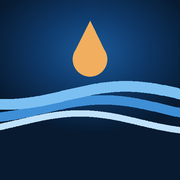
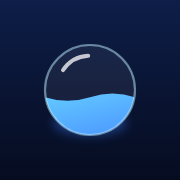
Логотип и заставка «Уровень»: стеклянная сфера, слоган, шапка с подписью, шрифт Unbounded в приложении
Claude-Session: https://claude.ai/code/session_019DFyfBB83DxV1XftDjFue7

diff --git a/index.html b/index.html
@@ -11,22 +11,29 @@
 <meta name="mobile-web-app-capable" content="yes">
 <meta name="apple-mobile-web-app-title" content="Поток">
 <meta name="apple-mobile-web-app-status-bar-style" content="default">
+<link rel="apple-touch-startup-image" media="(device-width:375px) and (device-height:667px) and (-webkit-device-pixel-ratio:2) and (orientation:portrait)" href="splash/s-750x1334.png">
+<link rel="apple-touch-startup-image" media="(device-width:390px) and (device-height:844px) and (-webkit-device-pixel-ratio:3) and (orientation:portrait)" href="splash/s-1170x2532.png">
+<link rel="apple-touch-startup-image" media="(device-width:393px) and (device-height:852px) and (-webkit-device-pixel-ratio:3) and (orientation:portrait)" href="splash/s-1179x2556.png">
+<link rel="apple-touch-startup-image" media="(device-width:428px) and (device-height:926px) and (-webkit-device-pixel-ratio:3) and (orientation:portrait)" href="splash/s-1284x2778.png">
+<link rel="apple-touch-startup-image" media="(device-width:430px) and (device-height:932px) and (-webkit-device-pixel-ratio:3) and (orientation:portrait)" href="splash/s-1290x2796.png">
+<link rel="apple-touch-startup-image" media="(device-width:402px) and (device-height:874px) and (-webkit-device-pixel-ratio:3) and (orientation:portrait)" href="splash/s-1206x2622.png">
+<link rel="apple-touch-startup-image" media="(device-width:440px) and (device-height:956px) and (-webkit-device-pixel-ratio:3) and (orientation:portrait)" href="splash/s-1320x2868.png">
 <link rel="manifest" href="manifest.webmanifest">
 <link rel="apple-touch-icon" href="icons/icon-180.png">
 <link rel="icon" type="image/png" href="icons/icon-192.png">
-<link rel="preload" href="marck-script.woff" as="font" type="font/woff" crossorigin>
+<link rel="preload" href="unbounded.woff" as="font" type="font/woff" crossorigin>
 <link rel="preconnect" href="https://fonts.googleapis.com">
 <link rel="preconnect" href="https://fonts.gstatic.com" crossorigin>
-<link rel="stylesheet" href="https://fonts.googleapis.com/css2?family=Golos+Text:wght@400;500;600;700&family=Unbounded:wght@700&display=swap">
+<link rel="stylesheet" href="https://fonts.googleapis.com/css2?family=Golos+Text:wght@400;500;600;700&display=swap">
 <script>
 /* Тема до первой отрисовки, чтобы не мигало: auto | light | dark */
 (function(){try{var t=localStorage.getItem('ff-theme');if(t==='light'||t==='dark'){document.documentElement.dataset.theme=t;var c=t==='dark'?'#0A1520':'#F1F6FA';document.querySelectorAll('meta[name=theme-color]').forEach(function(m){m.content=c})}}catch(e){}})();
 </script>
 <style>
-/* «Поток»: водная гамма (синий, голубой, бирюзовый), солнечный акцент для наград, каллиграфия для заголовков.
+/* «Поток»: технологичная вода. Знак — стеклянная сфера с уровнем жидкости, надпись Unbounded строчными.
    Раньше: «Тёплый поток»: тёплая основа, цвет по типу фонда, русло очереди, праздник за прогресс.
    Layout: одна колонка, шапка, четыре вкладки внизу, шторки для ввода. */
-@font-face{font-family:"Marck Script";src:url(marck-script.woff) format("woff");font-weight:400;font-style:normal;font-display:swap}
+@font-face{font-family:"Unbounded";src:url(unbounded.woff) format("woff");font-weight:500 700;font-style:normal;font-display:swap}
 :root{
   --bg:#F1F6FA; --surface:#FFFFFF; --surface-2:#E2ECF4; --surface-3:#D3E0EA; --sheet:#FFFFFF; --field:#F1F6FA;
   --ink:#0F2233; --muted:#566878; --line:#D3E0EA; --glow:rgba(77,148,230,.13);
@@ -43,7 +50,6 @@
   --sheet-shadow:0 -10px 30px rgba(15,34,51,.18); --btn-shadow:0 1px 2px rgba(15,34,51,.08);
   --toast-bg:#0F2233; --toast-ink:#F1F6FA; --toast-act:#8CC8F5;
   --f-display:"Unbounded","Golos Text",system-ui,sans-serif;
-  --f-script:"Marck Script","Segoe Script","Snell Roundhand",cursive;
   --f-body:"Golos Text",system-ui,-apple-system,"Segoe UI",sans-serif;
   --r:16px; --r-sm:12px;
 }
@@ -59,7 +65,7 @@
   --bad:#F2867C; --bad-soft:#3E1F1C;
   --good:#58CFD4; --good-soft:#10343A;
   --graphite:#93A9BC; --graphite-soft:#1B2A38;
-  --scrim:rgba(0,0,0,.62); --card-shadow:none; --sheet-shadow:0 -1px 0 var(--line); --btn-shadow:none; --btn-bg:var(--surface-2);
+  --scrim:rgba(0,0,0,.62); --card-shadow:none; --sheet-shadow:0 -1px 0 var(--line); --btn-shadow:none; --btn-bg:var(--surface-2); --mark-ring:0 0 0 1px rgba(160,200,255,.16);
   --toast-bg:#E6EFF6; --toast-ink:#0A1520; --toast-act:#1D5FA6;
   color-scheme:dark}}
 :root[data-theme="dark"]{
@@ -74,7 +80,7 @@
   --bad:#F2867C; --bad-soft:#3E1F1C;
   --good:#58CFD4; --good-soft:#10343A;
   --graphite:#93A9BC; --graphite-soft:#1B2A38;
-  --scrim:rgba(0,0,0,.62); --card-shadow:none; --sheet-shadow:0 -1px 0 var(--line); --btn-shadow:none; --btn-bg:var(--surface-2);
+  --scrim:rgba(0,0,0,.62); --card-shadow:none; --sheet-shadow:0 -1px 0 var(--line); --btn-shadow:none; --btn-bg:var(--surface-2); --mark-ring:0 0 0 1px rgba(160,200,255,.16);
   --toast-bg:#E6EFF6; --toast-ink:#0A1520; --toast-act:#1D5FA6;
   color-scheme:dark}
 
@@ -102,7 +108,11 @@ img{max-width:100%}
 header.top{position:sticky;top:0;padding-top:env(safe-area-inset-top,0px);z-index:5;background:var(--bg);border-bottom:1px solid var(--line)}
 .top-in{display:flex;align-items:center;justify-content:space-between;gap:12px;padding-block:10px}
 .eyebrow{font-size:12px;letter-spacing:.05em;text-transform:uppercase;color:var(--muted);font-weight:600}
-h1{font-family:var(--f-script);font-weight:400;font-size:32px;line-height:1;margin:0;letter-spacing:0;color:var(--accent)}
+.brand{display:flex;align-items:center;gap:11px;min-width:0}
+.brand-mark{width:40px;height:40px;flex:none;display:block;border-radius:10px;box-shadow:var(--mark-ring,0 4px 12px rgba(10,30,70,.22))}
+h1.brand-name{font-family:var(--f-display);font-weight:600;font-size:21px;line-height:1;margin:0;letter-spacing:-.02em;color:var(--ink)}
+.brand-tag{font-size:12.5px;line-height:1.2;color:var(--muted);margin-top:4px;white-space:nowrap;overflow:hidden;text-overflow:ellipsis}
+@media (prefers-reduced-motion:no-preference){.brand-wave{animation:spWave 4s linear infinite}}
 h2{font-weight:600;font-size:17px;margin:0;letter-spacing:-.005em}
 h3{font-weight:600;font-size:15px;margin:0}
 main{padding-block:16px calc(104px + env(safe-area-inset-bottom,0px));display:flex;flex-direction:column;gap:22px}
@@ -322,7 +332,7 @@ nav.tabs button[aria-current="page"]{color:var(--accent)}
 .hdr-btns{display:flex;gap:8px;align-items:center}
 .icon-btn{width:40px;height:40px;border-radius:var(--r-sm);border:1px solid var(--line);background:var(--surface);display:grid;place-items:center}
 .gate{display:flex;flex-direction:column;gap:16px;padding-top:8px}
-.gate-h{font-family:var(--f-script);font-weight:400;font-size:34px;line-height:1.1;margin:4px 0 6px;letter-spacing:0}
+.gate-h{font-family:var(--f-display);font-weight:600;font-size:23px;line-height:1.2;margin:4px 0 6px;letter-spacing:-.01em}
 .gate-form{padding:16px;display:flex;flex-direction:column;gap:12px}
 .gate-links{display:flex;flex-wrap:wrap;gap:16px;justify-content:center}
 .code{font-weight:700;font-size:26px;letter-spacing:.12em;padding:12px 14px;border-radius:var(--r-sm);background:var(--accent-soft);color:var(--accent);user-select:all;-webkit-user-select:all}
@@ -360,7 +370,7 @@ nav.tabs button[aria-current="page"]{color:var(--accent)}
 .cele{position:fixed;inset:0;z-index:40;background:radial-gradient(120% 70% at 50% 30%,var(--reward-soft),var(--bg) 70%);display:flex;flex-direction:column;align-items:center;justify-content:center;gap:18px;padding:32px 24px calc(32px + env(safe-area-inset-bottom,0px));text-align:center}
 .cele canvas{position:absolute;inset:0;width:100%;height:100%;pointer-events:none}
 .cele .ce-in{position:relative;display:flex;flex-direction:column;align-items:center;gap:14px;max-width:380px}
-.stamp{font-family:var(--f-script);font-weight:400;font-size:clamp(30px,9.5vw,42px);line-height:1.15;letter-spacing:.02em;color:var(--reward-ink);border:4px solid currentColor;border-radius:16px;padding:8px 18px;transform:rotate(-7deg);margin:4px 0 14px}
+.stamp{font-family:var(--f-display);font-weight:700;font-size:clamp(26px,8.5vw,38px);line-height:1.15;letter-spacing:.04em;text-transform:uppercase;color:var(--reward-ink);border:4px solid currentColor;border-radius:16px;padding:8px 18px;transform:rotate(-7deg);margin:4px 0 14px}
 .cele .ce-emoji{font-size:44px;line-height:1}
 .cele .ce-title{font-size:20px;font-weight:700;margin:0}
 .cele .ce-sub{color:var(--muted);margin:0}
@@ -399,40 +409,63 @@ nav.tabs button[aria-current="page"]{color:var(--accent)}
   @keyframes stamp{from{opacity:0;transform:rotate(-7deg) scale(2.2)}to{opacity:1;transform:rotate(-7deg) scale(1)}}
 }
 
-/* заставка: капля падает в воду, круги и волны несут надпись */
-#splash{position:fixed;inset:0;z-index:100;display:grid;place-items:center;overflow:hidden;color:#EAF4FC;background:radial-gradient(120% 80% at 50% 28%,#1C5C9C 0%,#0F3A6B 46%,#071A30 100%);transition:opacity .5s ease,visibility .5s}
+/* заставка «Уровень»: стеклянная сфера, жидкость поднимается, проявляется надпись */
+#splash{position:fixed;inset:0;z-index:100;display:flex;flex-direction:column;align-items:center;justify-content:center;padding-bottom:4vh;background:radial-gradient(90% 60% at 50% 42%,#0E2152 0%,#070F26 55%,#04081A 100%);transition:opacity .5s ease,visibility .5s}
 #splash.out{opacity:0;visibility:hidden;pointer-events:none}
-.sp-grid{position:absolute;inset:0;background-image:linear-gradient(rgba(190,222,248,.08) 1px,transparent 1px),linear-gradient(90deg,rgba(190,222,248,.08) 1px,transparent 1px);background-size:28px 28px;-webkit-mask-image:radial-gradient(70% 55% at 50% 46%,#000 15%,transparent 78%);mask-image:radial-gradient(70% 55% at 50% 46%,#000 15%,transparent 78%)}
-.sp-stage{position:relative;width:min(340px,88vw);aspect-ratio:320/300}
-.sp-svg{position:absolute;inset:0;width:100%;height:100%;overflow:visible}
-.sp-word{position:absolute;left:0;right:0;top:14%;text-align:center;font-family:var(--f-script);font-size:clamp(76px,25vw,96px);line-height:1.05;color:#EAF4FC;text-shadow:0 0 34px rgba(109,181,240,.42);clip-path:inset(-10% 0 -10% 0)}
-.sp-sub{position:absolute;left:0;right:0;bottom:4%;text-align:center;font:600 12px/1 var(--f-body);letter-spacing:.32em;text-transform:uppercase;color:rgba(234,244,252,.66)}
-.sp-w{fill:none;stroke-linecap:round}
-.sp-drop{fill:#F0AE5E;opacity:0}
-.sp-ring{fill:none;stroke:#BFE1FA;stroke-width:1.5;vector-effect:non-scaling-stroke;opacity:0;transform-box:fill-box;transform-origin:center}
+.sp-mark{width:136px;height:136px;display:block;overflow:visible}
+.sp-word{margin-top:30px;font-family:var(--f-display);font-weight:600;font-size:36px;line-height:1;letter-spacing:-.02em;color:#EAF4FC}
+.sp-tag{margin-top:14px;font:500 15px/1.3 var(--f-body);color:rgba(234,244,252,.62);letter-spacing:.01em}
+.sp-rim,.sp-hi{transform-box:fill-box;transform-origin:center}
 @media (prefers-reduced-motion:no-preference){
-  .sp-grid{animation:spFade 1s .05s backwards}
-  .sp-drop{animation:spDrop .62s .2s cubic-bezier(.5,0,.9,.45) both}
-  .sp-ring{animation:spRing 1.25s .8s ease-out backwards}
-  .sp-ring.r2{animation-delay:.98s}
-  .sp-w{stroke-dasharray:1;animation:spDraw 1.1s .85s cubic-bezier(.45,.05,.2,1) backwards}
-  .sp-w.w2{animation-delay:1s}.sp-w.w3{animation-delay:1.15s}
-  .sp-word{animation:spWord 1s .9s cubic-bezier(.6,.05,.25,1) backwards}
-  .sp-sub{animation:spFade .8s 1.7s backwards}
-  .sp-flow{animation:spFlow 4s ease-in-out 2s infinite}
-  @keyframes spFade{from{opacity:0}}
-  @keyframes spDrop{0%{transform:translateY(-230px);opacity:0}12%{opacity:1}86%{transform:translateY(0);opacity:1}100%{transform:translateY(8px) scale(.2);opacity:0}}
-  @keyframes spRing{0%{transform:scale(.2);opacity:.9}100%{transform:scale(16);opacity:0}}
-  @keyframes spDraw{0%{stroke-dashoffset:1;opacity:0}3%{opacity:1}100%{stroke-dashoffset:0;opacity:1}}
-  @keyframes spWord{from{clip-path:inset(-10% 100% -10% 0)}}
-  @keyframes spFlow{0%,100%{transform:translateY(0)}50%{transform:translateY(-3px)}}
+  .sp-rim{animation:spRim .8s cubic-bezier(.2,.8,.2,1) backwards}
+  .sp-liq{animation:spRise 1.3s .3s cubic-bezier(.3,.7,.2,1) backwards}
+  .sp-wave{animation:spWave 2.2s linear infinite}
+  .sp-glow{animation:spFade 1.1s .7s backwards}
+  .sp-hi{animation:spFade .7s 1.05s backwards}
+  .sp-word{animation:spUp .8s 1s cubic-bezier(.2,.8,.2,1) backwards}
+  .sp-tag{animation:spUp .8s 1.25s cubic-bezier(.2,.8,.2,1) backwards}
 }
+@keyframes spRim{from{opacity:0;transform:scale(.82)}}
+@keyframes spRise{from{transform:translateY(40px)}}
+@keyframes spWave{from{transform:translateX(-50px)}to{transform:translateX(0)}}
+@keyframes spFade{from{opacity:0}}
+@keyframes spUp{from{opacity:0;transform:translateY(10px)}}
 </style>
 <script>['gesturestart','gesturechange','gestureend'].forEach(function(e){document.addEventListener(e,function(ev){ev.preventDefault()})});var _t=0;document.addEventListener('touchend',function(ev){if(ev.target.closest&&ev.target.closest('input,select,textarea'))return;var n=Date.now();if(n-_t<350)ev.preventDefault();_t=n},{passive:false});</script>
 </head>
 <body>
+<div id="splash" aria-hidden="true">
+  <svg class="sp-mark" viewBox="0 0 100 100" focusable="false">
+    <defs>
+      <linearGradient id="spLq" x1="0" y1="0" x2="1" y2="1"><stop offset="0" stop-color="#6FE6FF"/><stop offset="1" stop-color="#2F55FF"/></linearGradient>
+      <clipPath id="spClip"><circle cx="50" cy="50" r="40"/></clipPath>
+      <filter id="spBl" x="-50%" y="-50%" width="200%" height="200%"><feGaussianBlur stdDeviation="8"/></filter>
+    </defs>
+    <ellipse class="sp-glow" cx="50" cy="78" rx="34" ry="12" fill="#3A7BFF" opacity=".55" filter="url(#spBl)"/>
+    <g clip-path="url(#spClip)"><g class="sp-liq"><path class="sp-wave" fill="url(#spLq)" d="M-50 56 q12.5 -5 25 0 t25 0 t25 0 t25 0 t25 0 t25 0 t25 0 t25 0 V110 H-50Z"/></g></g>
+    <circle class="sp-rim" cx="50" cy="50" r="40" fill="#fff" fill-opacity=".05" stroke="#BFEFFF" stroke-opacity=".55" stroke-width="1.4"/>
+    <path class="sp-hi" d="M26 36 A28 28 0 0 1 48 22" fill="none" stroke="#fff" stroke-opacity=".8" stroke-width="3" stroke-linecap="round"/>
+  </svg>
+  <div class="sp-word">поток</div>
+  <div class="sp-tag">Твой семейный финансист</div>
+</div>
 <header class="top"><div class="wrap top-in">
-  <div><div class="eyebrow" id="monthLbl">&nbsp;</div><h1>Поток</h1></div>
+  <div class="brand">
+  <svg class="brand-mark" viewBox="0 0 100 100" aria-hidden="true" focusable="false">
+    <defs>
+      <linearGradient id="hdBg" x1="0" y1="0" x2="0" y2="1"><stop offset="0" stop-color="#0E1E48"/><stop offset="1" stop-color="#060C20"/></linearGradient>
+      <linearGradient id="hdLq" x1="0" y1="0" x2="1" y2="1"><stop offset="0" stop-color="#6FE6FF"/><stop offset="1" stop-color="#2F55FF"/></linearGradient>
+      <clipPath id="hdClip"><circle cx="50" cy="50" r="27"/></clipPath>
+    </defs>
+    <rect width="100" height="100" rx="22.5" fill="url(#hdBg)"/>
+    <circle cx="50" cy="50" r="27" fill="#fff" fill-opacity=".07"/>
+    <g clip-path="url(#hdClip)"><path class="brand-wave" fill="url(#hdLq)" d="M-50 54 q12.5 -4 25 0 t25 0 t25 0 t25 0 t25 0 t25 0 t25 0 t25 0 V100 H-50Z"/></g>
+    <circle cx="50" cy="50" r="27" fill="none" stroke="#BFEFFF" stroke-opacity=".55" stroke-width="2.4"/>
+    <path d="M34 38 A19 19 0 0 1 49 30" fill="none" stroke="#fff" stroke-opacity=".8" stroke-width="3.4" stroke-linecap="round"/>
+  </svg>
+    <div style="min-width:0"><h1 class="brand-name">поток</h1><div class="brand-tag">Управляй своими деньгами</div></div>
+    <span id="monthLbl" hidden></span>
+  </div>
   <div class="hdr-btns">
     <button class="icon-btn" id="setBtn" data-act="settings" aria-label="Семья и настройки" hidden></button>
   </div>
@@ -460,7 +493,7 @@ nav.tabs button[aria-current="page"]{color:var(--accent)}
 (function(){var el=document.getElementById('splash');if(!el)return;var calm=false,seen=false;
 try{calm=matchMedia('(prefers-reduced-motion: reduce)').matches;seen=sessionStorage.getItem('potok-splash')==='1';sessionStorage.setItem('potok-splash','1')}catch(e){}
 if(seen){el.remove();return}
-var t0=Date.now(),min=calm?600:2300,done=false;
+var t0=Date.now(),min=calm?700:2400,done=false;
 function hide(){if(done)return;done=true;el.classList.add('out');setTimeout(function(){el.remove()},650)}
 el.addEventListener('click',hide);
 (function tick(){var n=Date.now()-t0;if(n>=5000||(n>=min&&document.body.dataset.ready))hide();else setTimeout(tick,100)})();

diff --git a/sw.js b/sw.js
@@ -1,7 +1,7 @@
 // Офлайн-режим: файлы сайта берутся из сети, а без сети из кэша.
 // Библиотеки Firebase кэшируются навсегда (их адрес содержит версию).
-const CACHE = 'potok-v7';
-const SHELL = ['./', './index.html', './app.js', './icons.js', './fb.js', './firebase-config.js', './seed.js', './marck-script.woff',
+const CACHE = 'potok-v8';
+const SHELL = ['./', './index.html', './app.js', './icons.js', './fb.js', './firebase-config.js', './seed.js', './unbounded.woff',
   './manifest.webmanifest', './icons/icon-180.png', './icons/icon-192.png', './icons/icon-512.png'];
 const FB = ['firebase-app.js', 'firebase-auth.js', 'firebase-firestore.js']
   .map(f => 'https://www.gstatic.com/firebasejs/10.12.2/' + f);

diff --git a/README.md b/README.md
@@ -41,7 +41,7 @@
 
 ## Файлы
 - `index.html`, `app.js` — интерфейс и расчёты
-- `marck-script.woff` — каллиграфический шрифт Marck Script (лицензия OFL, файл marck-script-OFL.txt), только кириллица и латиница.
+- `unbounded.woff` — шрифт Unbounded для логотипа и заголовков (лицензия OFL, файл unbounded-OFL.txt), только кириллица и латиница.
 - `splash/` — статичные заставки для iPhone, `icons.js` — иконки интерфейса (Lucide, встроены для работы без сети)
 - `fb.js` — работа с Firebase
 - `firebase-config.js` — ключи проекта
